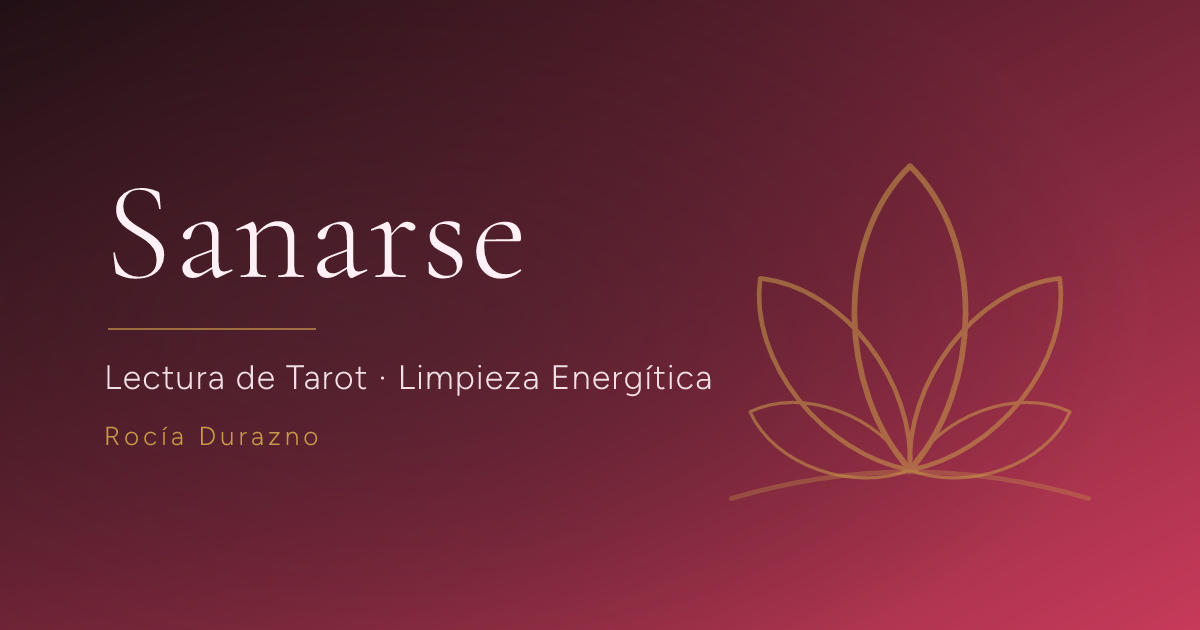
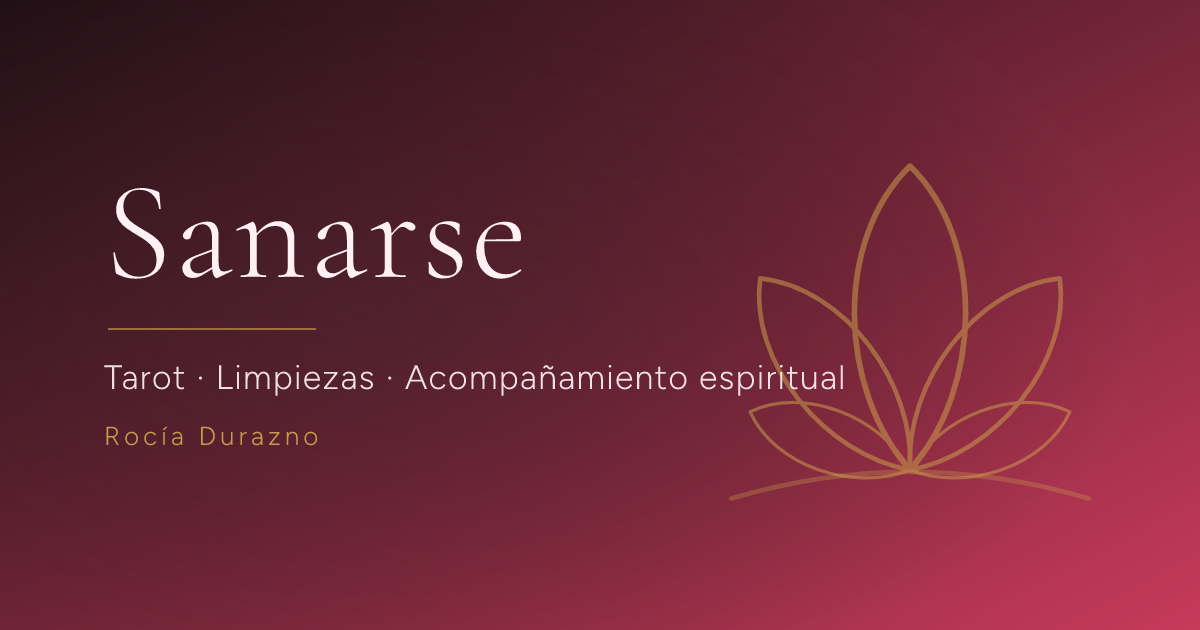
feat(og): refresh share image subtitle for the seven-service offering

Changed region(s): [[0.0925, 0.573, 0.7092, 0.6333]]

diff --git a/docs/project.md b/docs/project.md
@@ -186,7 +186,7 @@ Los textos de `og:*` y del JSON-LD están en español, igual que el resto del co
 bun run generate:og
 ```
 
-El script arma el SVG en memoria (degradado de marca `#1f0f14` → `#c73a5a`, wordmark en Cormorant Garamond, subtítulo "Lectura de Tarot · Limpieza Energética" en Figtree, marca de loto en dorado) y lo rasteriza con `@resvg/resvg-js` usando las fuentes de `scripts/fonts/` y `loadSystemFonts: false`, de modo que la salida es idéntica en cualquier máquina. El resultado es determinista: correrlo dos veces produce el mismo archivo byte a byte.
+El script arma el SVG en memoria (degradado de marca `#1f0f14` → `#c73a5a`, wordmark en Cormorant Garamond, subtítulo "Tarot · Limpiezas · Acompañamiento espiritual" en Figtree, marca de loto en dorado) y lo rasteriza con `@resvg/resvg-js` usando las fuentes de `scripts/fonts/` y `loadSystemFonts: false`, de modo que la salida es idéntica en cualquier máquina. El resultado es determinista: correrlo dos veces produce el mismo archivo byte a byte.
 
 El PNG está versionado y `@resvg/resvg-js` es una devDependency, así que producción nunca necesita la herramienta.
 
@@ -257,6 +257,5 @@ El mismo número tiene tres representaciones correctas, y confundirlas rompe el 
 
 - **Confirmar el `9` del número argentino** en un teléfono real (ver "Número de WhatsApp").
 - Ciudad o zona de servicio → `address`, `geo` y `areaServed` en el JSON-LD.
-- Moneda de los precios (`$500`, `$700`, `$1000`) → `offers.priceCurrency`.
 - Dominio de deploy → volver absolutas `canonical`, `og:url` y `og:image` (ver "Paso de deploy").
 - **Falta el visto bueno visual de `og-image.png`.** La validación automática comprueba que el PNG es válido, que mide 1200×630 y que usa las fuentes de marca, pero no puede juzgar el diseño. Hay que revisarlo a ojo.
